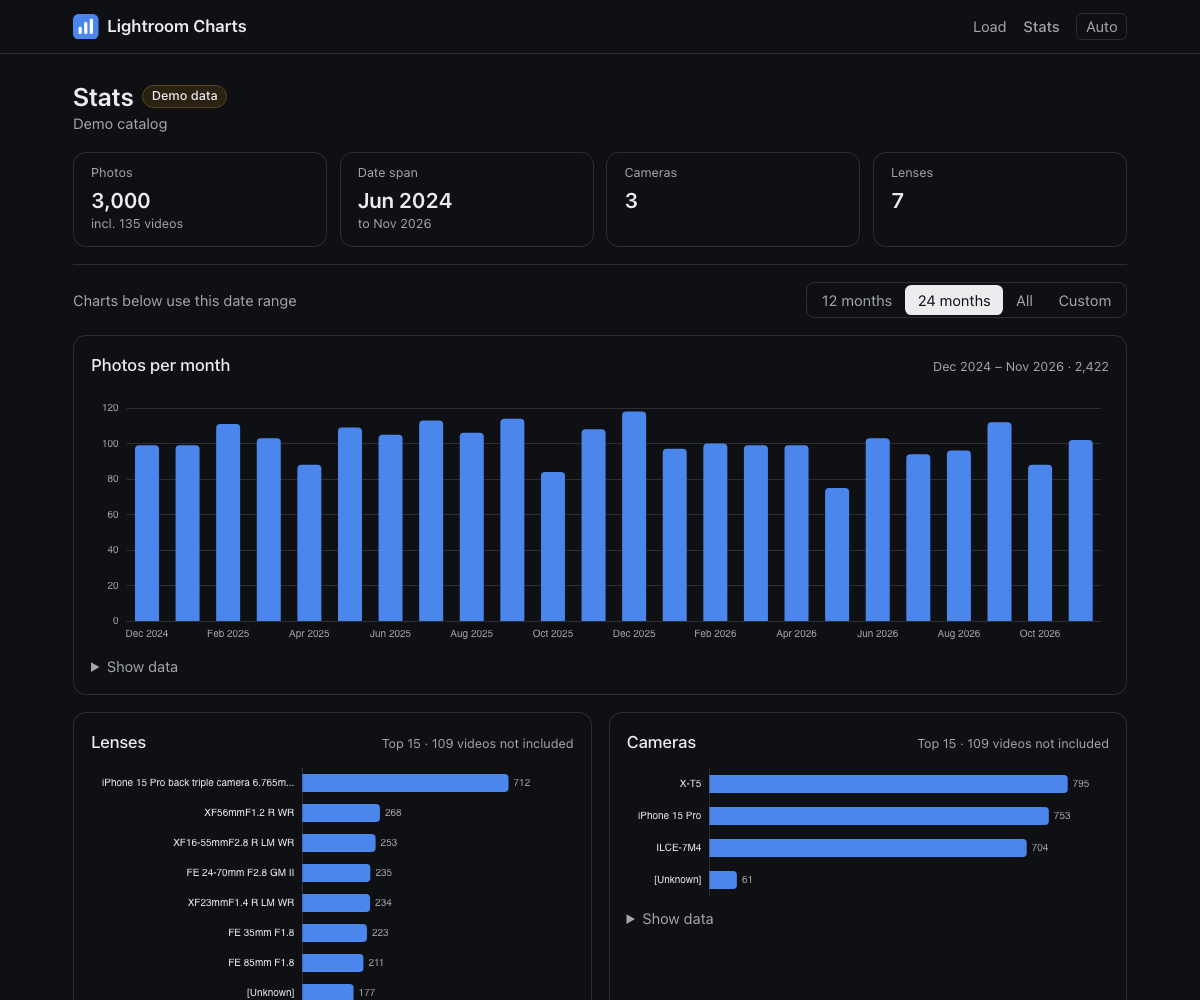
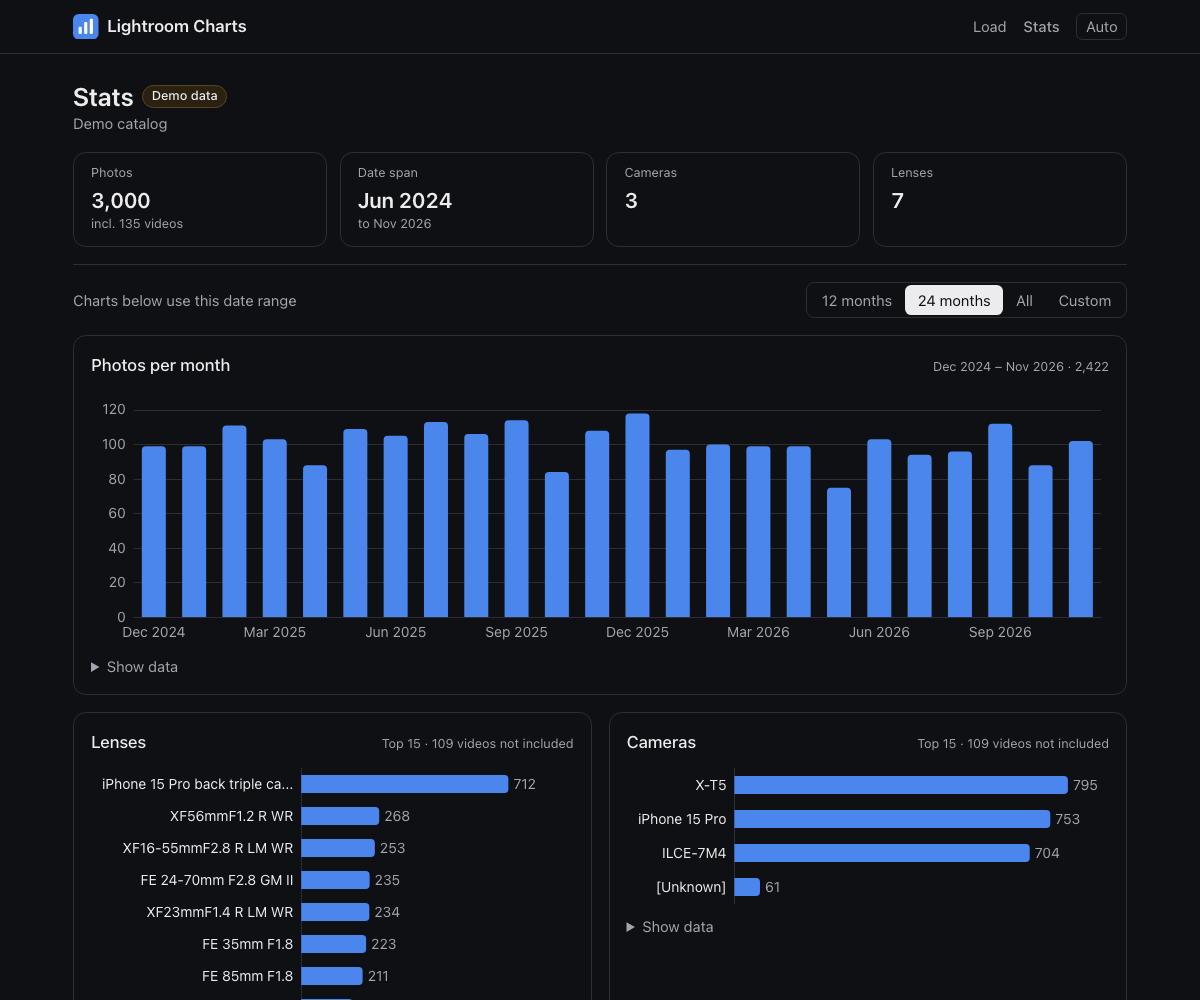
fix: chart labels ignored their size; make them larger
Charts set fontFamily: 'inherit'. On a canvas that isn't a valid font
family, so the browser discarded the whole font setting and drew every
label in its 10px default, whatever size was configured. That is why
chart labels read small and the earlier bump barely changed them.

- Use the page's actual font stack (read from the body's computed style)
  for chart text; test that the family is never a CSS keyword.
- Chart text sizes by screen width (CHART_TEXT_WIDE / _NARROW):
  desktop 14px, 13px on axes that show every label; phone 13px / 11px so
  ISO labels like 6400 and 12800+ don't collide. Lens/camera label column
  on phones widened 110 -> 125px; ranking rows 28 -> 30px tall.
- Checked at true pixel size with Playwright element screenshots at
  1280x800 and Pixel 7. README screenshots regenerated.

diff --git a/src/charts/options.ts b/src/charts/options.ts
@@ -1,5 +1,7 @@
 import type { EChartsCoreOption } from 'echarts/core';
-import type { ThemeColors } from './theme.ts';
+import { CHART_TEXT_WIDE, type ThemeColors } from './theme.ts';
+
+const size = (c: ThemeColors) => c.text ?? CHART_TEXT_WIDE;
 import type { MonthCount } from '@/catalog/transforms.ts';
 import type { NameCount } from '@/catalog/queries.ts';
 
@@ -14,13 +16,13 @@ function base(c: ThemeColors) {
   return {
     animationDuration: 300,
     // Chart text is in px (the root font size doesn't reach the canvas).
-    textStyle: { color: c.muted, fontFamily: 'inherit', fontSize: 13 },
+    textStyle: { color: c.muted, fontFamily: c.font ?? 'sans-serif', fontSize: size(c).base },
     tooltip: {
       trigger: 'axis',
       axisPointer: { type: 'shadow' },
       backgroundColor: c.surface,
       borderColor: c.line,
-      textStyle: { color: c.fg, fontSize: 13 },
+      textStyle: { color: c.fg, fontFamily: c.font ?? 'sans-serif', fontSize: size(c).base },
     },
   };
 }
@@ -28,7 +30,7 @@ function base(c: ThemeColors) {
 const valueAxis = (c: ThemeColors) => ({
   type: 'value',
   minInterval: 1,
-  axisLabel: { color: c.muted, fontSize: 13 },
+  axisLabel: { color: c.muted, fontSize: size(c).base },
   splitLine: { lineStyle: { color: c.line } },
 });
 
@@ -40,7 +42,7 @@ export function timelineOption(rows: MonthCount[], c: ThemeColors): EChartsCoreO
     xAxis: {
       type: 'category',
       data: rows.map((r) => monthLabel(r.month)),
-      axisLabel: { color: c.muted, hideOverlap: true, fontSize: 13 },
+      axisLabel: { color: c.muted, hideOverlap: true, fontSize: size(c).base },
       axisLine: { lineStyle: { color: c.line } },
       axisTick: { show: false },
     },
@@ -77,7 +79,7 @@ export function rankingOption(
     yAxis: {
       type: 'category',
       data: top.map((r) => r.name),
-      axisLabel: { color: c.fg, width: labelWidth, overflow: 'truncate', fontSize: 13 },
+      axisLabel: { color: c.fg, width: labelWidth, overflow: 'truncate', fontSize: size(c).base },
       axisLine: { lineStyle: { color: c.line } },
       axisTick: { show: false },
     },
@@ -88,7 +90,7 @@ export function rankingOption(
         data: top.map((r) => r.count),
         itemStyle: { color: c.chart, borderRadius: [0, 4, 4, 0] },
         barMaxWidth: 18,
-        label: { show: true, position: 'right', color: c.muted, fontSize: 13 },
+        label: { show: true, position: 'right', color: c.muted, fontSize: size(c).base },
       },
     ],
   };
@@ -109,8 +111,8 @@ export function columnOption(
       // Few bins: show every label (ECharts would skip alternate ones on phones).
       // Many bins (24 hours): let ECharts thin labels that would overlap.
       axisLabel: everyLabel
-        ? { color: c.muted, interval: 0, fontSize: 12 }
-        : { color: c.muted, hideOverlap: true, fontSize: 12 },
+        ? { color: c.muted, interval: 0, fontSize: size(c).dense }
+        : { color: c.muted, hideOverlap: true, fontSize: size(c).base },
       axisLine: { lineStyle: { color: c.line } },
       axisTick: { show: false },
     },
@@ -129,5 +131,5 @@ export function columnOption(
 
 /** Number of rows to give a ranking chart enough height per bar. */
 export function rankingHeight(n: number): number {
-  return Math.max(120, 28 * Math.max(n, 1) + 24);
+  return Math.max(120, 30 * Math.max(n, 1) + 24);
 }

diff --git a/src/charts/options.test.ts b/src/charts/options.test.ts
@@ -67,7 +67,7 @@ describe('chart options', () => {
 
   it('ranking height grows with rows and has a floor', () => {
     expect(rankingHeight(0)).toBe(120);
-    expect(rankingHeight(15)).toBe(28 * 15 + 24);
+    expect(rankingHeight(15)).toBe(30 * 15 + 24);
   });
 });
 
@@ -80,5 +80,32 @@ describe('column labels', () => {
     const thin = columnOption(bins, colors, { everyLabel: false }) as unknown as Axis;
     expect(thin.xAxis.axisLabel.interval).toBeUndefined();
     expect(thin.xAxis.axisLabel.hideOverlap).toBe(true);
+  });
+});
+
+describe('chart text sizes', () => {
+  type T = { textStyle: { fontSize: number }; xAxis: { axisLabel: { fontSize: number } } };
+  const bins = [{ label: 'f/2.8', count: 1 }];
+  it('defaults to the wide sizes and follows a narrow override', () => {
+    const wide = columnOption(bins, colors) as unknown as T;
+    expect(wide.textStyle.fontSize).toBe(14);
+    expect(wide.xAxis.axisLabel.fontSize).toBe(13); // dense: every label shown
+    const narrow = columnOption(bins, { ...colors, text: { base: 14, dense: 12 } }) as unknown as T;
+    expect(narrow.textStyle.fontSize).toBe(14);
+    expect(narrow.xAxis.axisLabel.fontSize).toBe(12);
+  });
+});
+
+describe('chart font family', () => {
+  type T = { textStyle: { fontFamily: string } };
+  it('uses a concrete font family, never a CSS keyword like inherit', () => {
+    const o = columnOption([{ label: 'a', count: 1 }], colors) as unknown as T;
+    expect(o.textStyle.fontFamily).toBe('sans-serif');
+    const withFont = columnOption([{ label: 'a', count: 1 }], {
+      ...colors,
+      font: 'system-ui, sans-serif',
+    }) as unknown as T;
+    expect(withFont.textStyle.fontFamily).toBe('system-ui, sans-serif');
+    expect(withFont.textStyle.fontFamily).not.toMatch(/inherit|initial|unset/);
   });
 });

diff --git a/src/routes/stats/StatsRoute.tsx b/src/routes/stats/StatsRoute.tsx
@@ -6,7 +6,7 @@ import { useOpenCatalog } from '@/state/catalogStore';
 import { resolveRange, type StatsSearch } from '@/catalog/filters.ts';
 import { HOURS, monthOf, WEEKDAYS } from '@/catalog/transforms.ts';
 import EChart from '@/charts/EChart';
-import { useThemeColors } from '@/charts/theme.ts';
+import { CHART_TEXT_NARROW, CHART_TEXT_WIDE, useThemeColors } from '@/charts/theme.ts';
 import { monthLabel, rankingHeight, rankingOption, timelineOption } from '@/charts/options.ts';
 import DateFilter from './DateFilter';
 import { BinsCard, Card, Status } from './Card';
@@ -30,8 +30,13 @@ export default function StatsRoute() {
   const open = useOpenCatalog()!; // guaranteed by the route's beforeLoad
   const search = useSearch({ from: '/stats' });
   const navigate = useNavigate({ from: '/stats' });
-  const colors = useThemeColors();
+  const themeColors = useThemeColors();
   const wide = useWide();
+  // Theme colors plus chart text sizes for this screen width.
+  const colors = useMemo(
+    () => ({ ...themeColors, text: wide ? CHART_TEXT_WIDE : CHART_TEXT_NARROW }),
+    [themeColors, wide]
+  );
 
   const today = monthOf(new Date());
   const { summary, generation } = open;
@@ -92,7 +97,7 @@ export default function StatsRoute() {
 
   const total = timeline.data?.reduce((n, r) => n + r.count, 0);
   const empty = total === 0;
-  const labelWidth = wide ? 200 : 110;
+  const labelWidth = wide ? 200 : 125;
 
   const timelineOpt = useMemo(
     () => (timeline.data ? timelineOption(timeline.data, colors) : null),

diff --git a/src/charts/theme.ts b/src/charts/theme.ts
@@ -1,6 +1,26 @@
 import { useEffect, useState } from 'react';
 
+/** Chart text sizes in px (canvas text doesn't follow the page's rem sizes). */
+export interface ChartText {
+  /** Axis labels, bar values, tooltips. */
+  base: number;
+  /** Axes that show every label in a narrow slot (ISO, aperture, weekday). */
+  dense: number;
+}
+
+/** Desktop has room for larger labels; phones keep dense axes small enough not to collide. */
+export const CHART_TEXT_WIDE: ChartText = { base: 14, dense: 13 };
+export const CHART_TEXT_NARROW: ChartText = { base: 13, dense: 11 };
+
 export interface ThemeColors {
+  /** Text sizes; defaults to CHART_TEXT_WIDE when omitted. */
+  text?: ChartText;
+  /**
+   * The page's real font stack. Canvas text needs a concrete family: a CSS
+   * keyword like 'inherit' makes the browser ignore the whole font setting
+   * and fall back to its small default, whatever size is asked for.
+   */
+  font?: string;
   fg: string;
   muted: string;
   line: string;
@@ -14,6 +34,7 @@ function readColors(): ThemeColors {
   const s = getComputedStyle(document.documentElement);
   const v = (name: string) => s.getPropertyValue(name).trim();
   return {
+    font: getComputedStyle(document.body).fontFamily || 'sans-serif',
     fg: v('--fg'),
     muted: v('--muted'),
     line: v('--line'),
